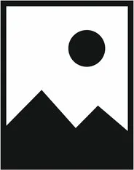
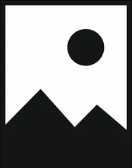
Added Default Image

diff --git a/MainPage.xaml b/MainPage.xaml
@@ -67,10 +67,11 @@
                 <Button x:Name="addAtt" Content="Add" Margin="10" Click="addAttribute"/>
                 <Button x:Name="subAtt" Content="Sub" Margin="10"/>
             </StackPanel>
-                <Button x:Name="addItemConfirmCol" Content="Add Collection" Click="NewCollectionConfirm" Margin="10" HorizontalAlignment="Center" Width="200" Height="50" Background="ForestGreen"/>
-
+            <Button x:Name="addItemConfirmCol" Content="Add Collection" Click="NewCollectionConfirm" Margin="10" HorizontalAlignment="Center" Width="200" Height="50" Background="ForestGreen"/>
         </StackPanel>
+        
         <Grid x:Name="singleItemView" Visibility="Visible">
+            
             <Grid.ColumnDefinitions>
                 <ColumnDefinition Width="*" />
                 <ColumnDefinition Width="*" />
@@ -79,6 +80,7 @@
             <Grid.RowDefinitions>
                 <RowDefinition Height="Auto"/>
             </Grid.RowDefinitions>
+            
             <StackPanel x:Name="nameDescPanel" Grid.Column="0" Orientation="Vertical" Visibility="Visible" HorizontalAlignment="Stretch">
                 <TextBox x:Name="singleViewName" Header="Name" PlaceholderText="" HorizontalAlignment="Stretch" Margin="20" Visibility="Visible" IsEnabled="False"/>
                 <TextBox x:Name="singleViewDescription" Header="Description" PlaceholderText="" Height="Auto" MinHeight="200" Margin="20" Visibility="Visible" HorizontalAlignment="Stretch" IsEnabled="False"/>
@@ -93,5 +95,6 @@
             </ScrollViewer>
             <Image x:Name="singleItemImage" Grid.Column="2" Stretch="Fill" HorizontalAlignment="Stretch" VerticalAlignment="Top" Margin="25"/>
         </Grid>
+        
     </StackPanel>
 </Page>

diff --git a/MainPage.xaml.cs b/MainPage.xaml.cs
@@ -169,6 +169,15 @@ namespace collectionTest1
 
                     }
                 }
+                else
+                {
+                    bitmapImage.UriSource = new Uri("ms-appx:///Assets/placeHolder.png", UriKind.Absolute);
+                    addedItemImage.Source = bitmapImage;
+                    addedItemImage.Opacity = 0.5;
+                    addedItemImage.Width = 100;
+                    addedItemImage.Height = 100;
+                    addedItemImage.PointerPressed += AddedItemImage_PointerPressed;
+                }
 
                 // Add Button and image, shift "Add Item" button over
                // ItemGrid.Children.Add(addedItemButton);
